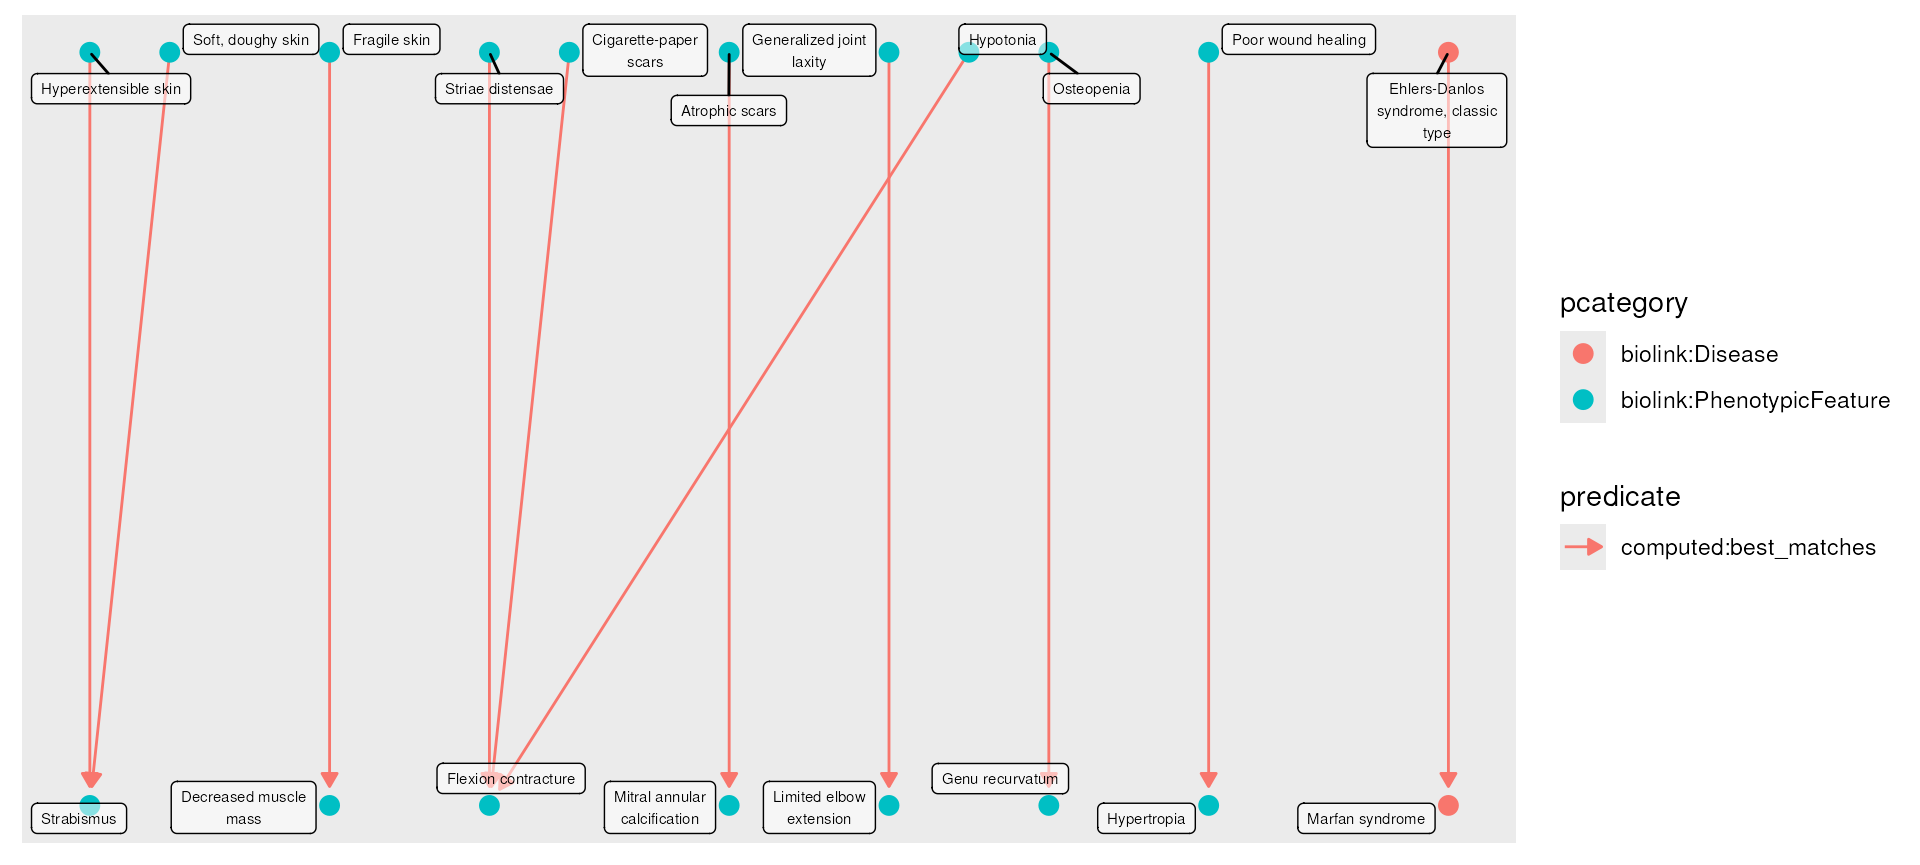
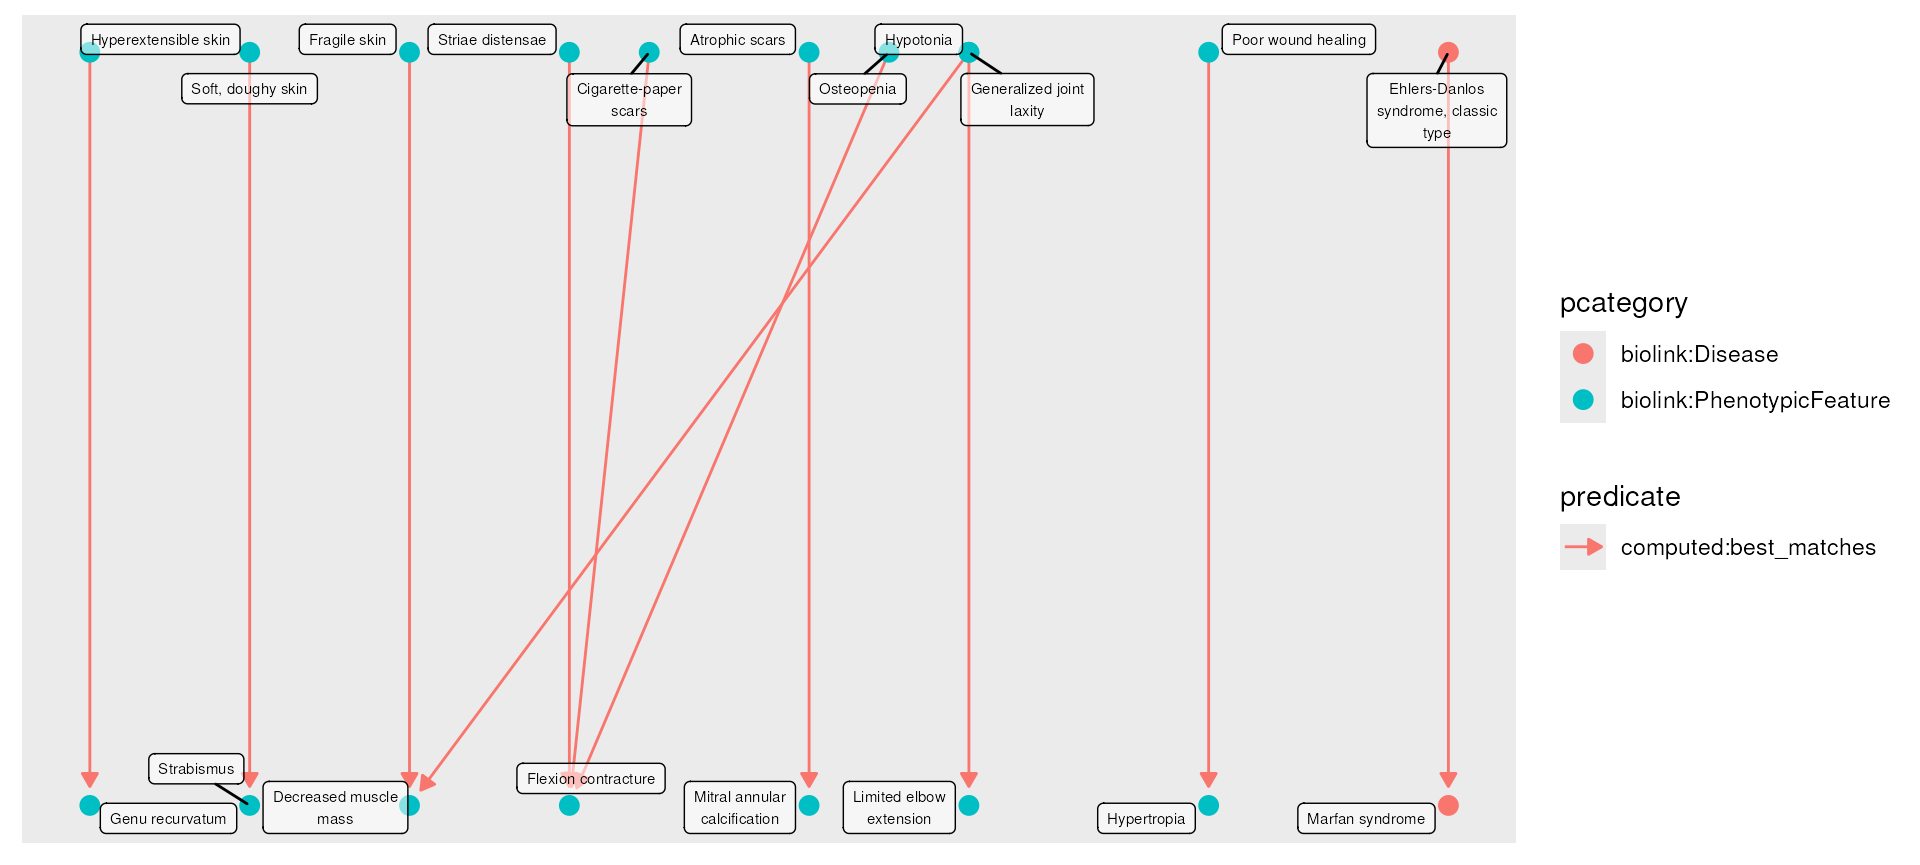
Deploying to gh-pages from @ monarch-initiative/monarchr@3a3d5cf29ec1f6ad160d8322fe490be2c0833464 🚀

Changed region(s): [[0.0, 0.0312, 0.5938, 0.6243], [0.0, 0.4058, 0.5625, 0.9676]]

diff --git a/reference/monarch_semsim.html b/reference/monarch_semsim.html
@@ -61,7 +61,7 @@ https://monarchinitiative.org/explore#phenotype-explorer."><!-- mathjax --><scri
   <div class="col-md-9 contents">
     <div class="page-header">
     <h1>Semantic similarity mapping between two graphs</h1>
-    <small class="dont-index">Source: <a href="https://github.com/monarch-initiative/monarchr/blob/engines/R/monarch_semsim.R" class="external-link"><code>R/monarch_semsim.R</code></a></small>
+    <small class="dont-index">Source: <a href="https://github.com/monarch-initiative/monarchr/blob/main/R/monarch_semsim.R" class="external-link"><code>R/monarch_semsim.R</code></a></small>
     <div class="hidden name"><code>monarch_semsim.Rd</code></div>
     </div>
 
@@ -148,11 +148,11 @@ the best matches from the second graph to the first graph.</p>
 <span class="r-msg co"><span class="r-pr">#&gt;</span> Joining with `by = join_by(id, category, pcategory, name, description, synonym,</span>
 <span class="r-msg co"><span class="r-pr">#&gt;</span> iri, xref, namespace, provided_by)`</span>
 <span class="r-in"><span><span class="fu"><a href="https://rdrr.io/r/base/print.html" class="external-link">print</a></span><span class="op">(</span><span class="va">sim</span><span class="op">)</span></span></span>
-<span class="r-out co"><span class="r-pr">#&gt;</span> <span style="color: #949494;"># A tbl_graph: 133 nodes and 106 edges</span></span>
+<span class="r-out co"><span class="r-pr">#&gt;</span> <span style="color: #949494;"># A tbl_graph: 130 nodes and 106 edges</span></span>
 <span class="r-out co"><span class="r-pr">#&gt;</span> <span style="color: #949494;">#</span></span>
-<span class="r-out co"><span class="r-pr">#&gt;</span> <span style="color: #949494;"># A directed multigraph with 39 components</span></span>
+<span class="r-out co"><span class="r-pr">#&gt;</span> <span style="color: #949494;"># A directed multigraph with 36 components</span></span>
 <span class="r-out co"><span class="r-pr">#&gt;</span> <span style="color: #949494;">#</span></span>
-<span class="r-out co"><span class="r-pr">#&gt;</span> <span style="color: #949494;"># Node Data: 133 × 10 (active)</span></span>
+<span class="r-out co"><span class="r-pr">#&gt;</span> <span style="color: #949494;"># Node Data: 130 × 10 (active)</span></span>
 <span class="r-out co"><span class="r-pr">#&gt;</span>    id         pcategory name  description synonym category iri   xref  namespace</span>
 <span class="r-out co"><span class="r-pr">#&gt;</span>    <span style="color: #949494; font-style: italic;">&lt;chr&gt;</span>      <span style="color: #949494; font-style: italic;">&lt;chr&gt;</span>     <span style="color: #949494; font-style: italic;">&lt;chr&gt;</span> <span style="color: #949494; font-style: italic;">&lt;chr&gt;</span>       <span style="color: #949494; font-style: italic;">&lt;named&gt;</span> <span style="color: #949494; font-style: italic;">&lt;list&gt;</span>   <span style="color: #949494; font-style: italic;">&lt;chr&gt;</span> <span style="color: #949494; font-style: italic;">&lt;nam&gt;</span> <span style="color: #949494; font-style: italic;">&lt;chr&gt;</span>    </span>
 <span class="r-out co"><span class="r-pr">#&gt;</span> <span style="color: #BCBCBC;"> 1</span> MONDO:000… biolink:… Marf… A disorder… <span style="color: #949494;">&lt;chr&gt;</span>   <span style="color: #949494;">&lt;chr&gt;</span>    http… <span style="color: #949494;">&lt;chr&gt;</span> MONDO    </span>
@@ -165,15 +165,15 @@ the best matches from the second graph to the first graph.</p>
 <span class="r-out co"><span class="r-pr">#&gt;</span> <span style="color: #BCBCBC;"> 8</span> HP:0025586 biolink:… Hype… A type of … <span style="color: #949494;">&lt;lgl&gt;</span>   <span style="color: #949494;">&lt;chr&gt;</span>    http… <span style="color: #949494;">&lt;lgl&gt;</span> HP       </span>
 <span class="r-out co"><span class="r-pr">#&gt;</span> <span style="color: #BCBCBC;"> 9</span> HP:0000518 biolink:… Cata… A cataract… <span style="color: #949494;">&lt;chr&gt;</span>   <span style="color: #949494;">&lt;chr&gt;</span>    http… <span style="color: #949494;">&lt;chr&gt;</span> HP       </span>
 <span class="r-out co"><span class="r-pr">#&gt;</span> <span style="color: #BCBCBC;">10</span> HP:0008132 biolink:… Medi… <span style="color: #BB0000;">NA</span>          <span style="color: #949494;">&lt;lgl&gt;</span>   <span style="color: #949494;">&lt;chr&gt;</span>    http… <span style="color: #949494;">&lt;chr&gt;</span> HP       </span>
-<span class="r-out co"><span class="r-pr">#&gt;</span> <span style="color: #949494;"># ℹ 123 more rows</span></span>
+<span class="r-out co"><span class="r-pr">#&gt;</span> <span style="color: #949494;"># ℹ 120 more rows</span></span>
 <span class="r-out co"><span class="r-pr">#&gt;</span> <span style="color: #949494;"># ℹ 1 more variable: provided_by &lt;named list&gt;</span></span>
 <span class="r-out co"><span class="r-pr">#&gt;</span> <span style="color: #949494;">#</span></span>
 <span class="r-out co"><span class="r-pr">#&gt;</span> <span style="color: #949494;"># Edge Data: 106 × 8</span></span>
 <span class="r-out co"><span class="r-pr">#&gt;</span>    from    to subject    predicate             object   metric score ancestor_id</span>
 <span class="r-out co"><span class="r-pr">#&gt;</span>   <span style="color: #949494; font-style: italic;">&lt;int&gt;</span> <span style="color: #949494; font-style: italic;">&lt;int&gt;</span> <span style="color: #949494; font-style: italic;">&lt;chr&gt;</span>      <span style="color: #949494; font-style: italic;">&lt;chr&gt;</span>                 <span style="color: #949494; font-style: italic;">&lt;chr&gt;</span>    <span style="color: #949494; font-style: italic;">&lt;chr&gt;</span>  <span style="color: #949494; font-style: italic;">&lt;dbl&gt;</span> <span style="color: #949494; font-style: italic;">&lt;chr&gt;</span>      </span>
-<span class="r-out co"><span class="r-pr">#&gt;</span> <span style="color: #BCBCBC;">1</span>   106   124 HP:0000006 computed:best_matches HP:0003… ances…  4.10 HP:0000001 </span>
+<span class="r-out co"><span class="r-pr">#&gt;</span> <span style="color: #BCBCBC;">1</span>   106   128 HP:0000006 computed:best_matches HP:0031… ances…  4.10 HP:0000001 </span>
 <span class="r-out co"><span class="r-pr">#&gt;</span> <span style="color: #BCBCBC;">2</span>    83    83 HP:0000023 computed:best_matches HP:0000… ances… 18.2  HP:0000023 </span>
-<span class="r-out co"><span class="r-pr">#&gt;</span> <span style="color: #BCBCBC;">3</span>    23   113 HP:0000098 computed:best_matches HP:0000… ances…  5.96 UPHENO:006…</span>
+<span class="r-out co"><span class="r-pr">#&gt;</span> <span style="color: #BCBCBC;">3</span>    23   112 HP:0000098 computed:best_matches HP:0000… ances…  5.96 UPHENO:006…</span>
 <span class="r-out co"><span class="r-pr">#&gt;</span> <span style="color: #949494;"># ℹ 103 more rows</span></span>
 <span class="r-in"><span></span></span>
 <span class="r-in"><span><span class="co"># also inclue the unmatched targets</span></span></span>
@@ -216,7 +216,7 @@ the best matches from the second graph to the first graph.</p>
 <span class="r-in"><span><span class="fu"><a href="https://rdrr.io/r/base/print.html" class="external-link">print</a></span><span class="op">(</span><span class="va">sim</span><span class="op">)</span></span></span>
 <span class="r-out co"><span class="r-pr">#&gt;</span> <span style="color: #949494;"># A tbl_graph: 161 nodes and 173 edges</span></span>
 <span class="r-out co"><span class="r-pr">#&gt;</span> <span style="color: #949494;">#</span></span>
-<span class="r-out co"><span class="r-pr">#&gt;</span> <span style="color: #949494;"># A directed multigraph with 27 components</span></span>
+<span class="r-out co"><span class="r-pr">#&gt;</span> <span style="color: #949494;"># A directed multigraph with 29 components</span></span>
 <span class="r-out co"><span class="r-pr">#&gt;</span> <span style="color: #949494;">#</span></span>
 <span class="r-out co"><span class="r-pr">#&gt;</span> <span style="color: #949494;"># Node Data: 161 × 10 (active)</span></span>
 <span class="r-out co"><span class="r-pr">#&gt;</span>    id         pcategory name  description synonym category iri   xref  namespace</span>
@@ -237,7 +237,7 @@ the best matches from the second graph to the first graph.</p>
 <span class="r-out co"><span class="r-pr">#&gt;</span> <span style="color: #949494;"># Edge Data: 173 × 8</span></span>
 <span class="r-out co"><span class="r-pr">#&gt;</span>    from    to subject    predicate             object   metric score ancestor_id</span>
 <span class="r-out co"><span class="r-pr">#&gt;</span>   <span style="color: #949494; font-style: italic;">&lt;int&gt;</span> <span style="color: #949494; font-style: italic;">&lt;int&gt;</span> <span style="color: #949494; font-style: italic;">&lt;chr&gt;</span>      <span style="color: #949494; font-style: italic;">&lt;chr&gt;</span>                 <span style="color: #949494; font-style: italic;">&lt;chr&gt;</span>    <span style="color: #949494; font-style: italic;">&lt;chr&gt;</span>  <span style="color: #949494; font-style: italic;">&lt;dbl&gt;</span> <span style="color: #949494; font-style: italic;">&lt;chr&gt;</span>      </span>
-<span class="r-out co"><span class="r-pr">#&gt;</span> <span style="color: #BCBCBC;">1</span>   106    12 HP:0000006 computed:best_matches HP:0002… ances…  4.10 HP:0000001 </span>
+<span class="r-out co"><span class="r-pr">#&gt;</span> <span style="color: #BCBCBC;">1</span>   106   116 HP:0000006 computed:best_matches HP:0002… ances…  4.10 HP:0000001 </span>
 <span class="r-out co"><span class="r-pr">#&gt;</span> <span style="color: #BCBCBC;">2</span>    83    83 HP:0000023 computed:best_matches HP:0000… ances… 18.2  HP:0000023 </span>
 <span class="r-out co"><span class="r-pr">#&gt;</span> <span style="color: #BCBCBC;">3</span>    23   125 HP:0000098 computed:best_matches HP:0000… ances…  5.96 UPHENO:006…</span>
 <span class="r-out co"><span class="r-pr">#&gt;</span> <span style="color: #949494;"># ℹ 170 more rows</span></span>

diff --git a/articles/monarchr.html b/articles/monarchr.html
@@ -93,7 +93,7 @@ O’Neil</h4>
 <i>Jul-23-2024</i>
 </h4>
       
-      <small class="dont-index">Source: <a href="https://github.com/monarch-initiative/monarchr/blob/engines/vignettes/monarchr.Rmd" class="external-link"><code>vignettes/monarchr.Rmd</code></a></small>
+      <small class="dont-index">Source: <a href="https://github.com/monarch-initiative/monarchr/blob/main/vignettes/monarchr.Rmd" class="external-link"><code>vignettes/monarchr.Rmd</code></a></small>
       <div class="hidden name"><code>monarchr.Rmd</code></div>
 
     </div>
@@ -6539,7 +6539,7 @@ ancestor_id
 9
 </td>
 <td style="text-align:left;">
-19
+16
 </td>
 <td style="text-align:left;">
 “HP:0000938”
@@ -6548,7 +6548,7 @@ ancestor_id
 “computed:best_matches”
 </td>
 <td style="text-align:left;">
-“HP:0002816”
+“HP:0001371”
 </td>
 <td style="text-align:left;">
 “ancestor_information_content”
@@ -6565,7 +6565,7 @@ ancestor_id
 2
 </td>
 <td style="text-align:left;">
-14
+19
 </td>
 <td style="text-align:left;">
 “HP:0000974”
@@ -6574,7 +6574,7 @@ ancestor_id
 “computed:best_matches”
 </td>
 <td style="text-align:left;">
-“HP:0000486”
+“HP:0002816”
 </td>
 <td style="text-align:left;">
 “ancestor_information_content”
@@ -6747,7 +6747,7 @@ ancestor_id
 11
 </td>
 <td style="text-align:left;">
-16
+17
 </td>
 <td style="text-align:left;">
 “HP:0001252”
@@ -6756,7 +6756,7 @@ ancestor_id
 “computed:best_matches”
 </td>
 <td style="text-align:left;">
-“HP:0001371”
+“HP:0003199”
 </td>
 <td style="text-align:left;">
 “ancestor_information_content”

diff --git a/reference/monarch_engine.html b/reference/monarch_engine.html
@@ -60,7 +60,7 @@ graph objects."><!-- mathjax --><script src="https://cdnjs.cloudflare.com/ajax/l
   <div class="col-md-9 contents">
     <div class="page-header">
     <h1>Create a knowledge graph engine object backed by the public Monarch Neo4j instance</h1>
-    <small class="dont-index">Source: <a href="https://github.com/monarch-initiative/monarchr/blob/engines/R/monarch_engine.R" class="external-link"><code>R/monarch_engine.R</code></a></small>
+    <small class="dont-index">Source: <a href="https://github.com/monarch-initiative/monarchr/blob/main/R/monarch_engine.R" class="external-link"><code>R/monarch_engine.R</code></a></small>
     <div class="hidden name"><code>monarch_engine.Rd</code></div>
     </div>
 

diff --git a/reference/summarize_neighborhood.html b/reference/summarize_neighborhood.html
@@ -63,7 +63,7 @@ graph's collective neighborhood in the larger KG."><!-- mathjax --><script src="
   <div class="col-md-9 contents">
     <div class="page-header">
     <h1>Summarize neighborhood</h1>
-    <small class="dont-index">Source: <a href="https://github.com/monarch-initiative/monarchr/blob/engines/R/summarize_neighborhood.R" class="external-link"><code>R/summarize_neighborhood.R</code></a></small>
+    <small class="dont-index">Source: <a href="https://github.com/monarch-initiative/monarchr/blob/main/R/summarize_neighborhood.R" class="external-link"><code>R/summarize_neighborhood.R</code></a></small>
     <div class="hidden name"><code>summarize_neighborhood.Rd</code></div>
     </div>
 

diff --git a/reference/monarch_search.html b/reference/monarch_search.html
@@ -61,7 +61,7 @@ It returns nodes (no edges) from the Monarch KG, fetched via an instance of mona
   <div class="col-md-9 contents">
     <div class="page-header">
     <h1>Search for KG nodes using the Monarch Initiative search API</h1>
-    <small class="dont-index">Source: <a href="https://github.com/monarch-initiative/monarchr/blob/engines/R/monarch_search.R" class="external-link"><code>R/monarch_search.R</code></a></small>
+    <small class="dont-index">Source: <a href="https://github.com/monarch-initiative/monarchr/blob/main/R/monarch_search.R" class="external-link"><code>R/monarch_search.R</code></a></small>
     <div class="hidden name"><code>monarch_search.Rd</code></div>
     </div>
 

diff --git a/reference/stitch_vectors.html b/reference/stitch_vectors.html
@@ -62,7 +62,7 @@ scalar strings"><!-- mathjax --><script src="https://cdnjs.cloudflare.com/ajax/l
   <div class="col-md-9 contents">
     <div class="page-header">
     <h1>Stitch Vectors</h1>
-    <small class="dont-index">Source: <a href="https://github.com/monarch-initiative/monarchr/blob/engines/R/cypher_query.neo4j_engine.R" class="external-link"><code>R/cypher_query.neo4j_engine.R</code></a></small>
+    <small class="dont-index">Source: <a href="https://github.com/monarch-initiative/monarchr/blob/main/R/cypher_query.neo4j_engine.R" class="external-link"><code>R/cypher_query.neo4j_engine.R</code></a></small>
     <div class="hidden name"><code>stitch_vectors.Rd</code></div>
     </div>
 

diff --git a/reference/normalize_categories.html b/reference/normalize_categories.html
@@ -60,7 +60,7 @@ It selects the most preferred category from each vector, or the first category i
   <div class="col-md-9 contents">
     <div class="page-header">
     <h1>Normalize Categories</h1>
-    <small class="dont-index">Source: <a href="https://github.com/monarch-initiative/monarchr/blob/engines/R/normalize_categories.R" class="external-link"><code>R/normalize_categories.R</code></a></small>
+    <small class="dont-index">Source: <a href="https://github.com/monarch-initiative/monarchr/blob/main/R/normalize_categories.R" class="external-link"><code>R/normalize_categories.R</code></a></small>
     <div class="hidden name"><code>normalize_categories.Rd</code></div>
     </div>
 

diff --git a/reference/neo4j_engine.html b/reference/neo4j_engine.html
@@ -61,7 +61,7 @@ graph objects.'><!-- mathjax --><script src="https://cdnjs.cloudflare.com/ajax/l
   <div class="col-md-9 contents">
     <div class="page-header">
     <h1>Create a knowledge graph engine object for a neo4j database</h1>
-    <small class="dont-index">Source: <a href="https://github.com/monarch-initiative/monarchr/blob/engines/R/neo4j_engine.R" class="external-link"><code>R/neo4j_engine.R</code></a></small>
+    <small class="dont-index">Source: <a href="https://github.com/monarch-initiative/monarchr/blob/main/R/neo4j_engine.R" class="external-link"><code>R/neo4j_engine.R</code></a></small>
     <div class="hidden name"><code>neo4j_engine.Rd</code></div>
     </div>
 

diff --git a/reference/fetch_nodes.html b/reference/fetch_nodes.html
@@ -63,7 +63,7 @@ set of condition expressions are supported, see details."><!-- mathjax --><scrip
   <div class="col-md-9 contents">
     <div class="page-header">
     <h1>Fetch nodes from a graph using a set of IDs or conditions</h1>
-    <small class="dont-index">Source: <a href="https://github.com/monarch-initiative/monarchr/blob/engines/R/fetch_nodes.R" class="external-link"><code>R/fetch_nodes.R</code></a></small>
+    <small class="dont-index">Source: <a href="https://github.com/monarch-initiative/monarchr/blob/main/R/fetch_nodes.R" class="external-link"><code>R/fetch_nodes.R</code></a></small>
     <div class="hidden name"><code>fetch_nodes.Rd</code></div>
     </div>
 

diff --git a/reference/grapes-in_list-grapes.html b/reference/grapes-in_list-grapes.html
@@ -60,7 +60,7 @@ that this is different than %in% which does not work with list columns in a natu
   <div class="col-md-9 contents">
     <div class="page-header">
     <h1>Check if an element is contained in list sub-elements</h1>
-    <small class="dont-index">Source: <a href="https://github.com/monarch-initiative/monarchr/blob/engines/R/in_list.R" class="external-link"><code>R/in_list.R</code></a></small>
+    <small class="dont-index">Source: <a href="https://github.com/monarch-initiative/monarchr/blob/main/R/in_list.R" class="external-link"><code>R/in_list.R</code></a></small>
     <div class="hidden name"><code>grapes-in_list-grapes.Rd</code></div>
     </div>
 

diff --git a/reference/expand.html b/reference/expand.html
@@ -62,7 +62,7 @@ engine is used; if the first parameter is a query graph, the most recent engine 
   <div class="col-md-9 contents">
     <div class="page-header">
     <h1>Fetch additional knowledge graph edges connected to a query graph</h1>
-    <small class="dont-index">Source: <a href="https://github.com/monarch-initiative/monarchr/blob/engines/R/expand.R" class="external-link"><code>R/expand.R</code></a></small>
+    <small class="dont-index">Source: <a href="https://github.com/monarch-initiative/monarchr/blob/main/R/expand.R" class="external-link"><code>R/expand.R</code></a></small>
     <div class="hidden name"><code>expand.Rd</code></div>
     </div>
 

diff --git a/articles/examples/alzheimers_phenotypes.html b/articles/examples/alzheimers_phenotypes.html
@@ -93,7 +93,7 @@ O’Neil</h4>
 <i>Jul-23-2024</i>
 </h4>
       
-      <small class="dont-index">Source: <a href="https://github.com/monarch-initiative/monarchr/blob/engines/vignettes/examples/alzheimers_phenotypes.Rmd" class="external-link"><code>vignettes/examples/alzheimers_phenotypes.Rmd</code></a></small>
+      <small class="dont-index">Source: <a href="https://github.com/monarch-initiative/monarchr/blob/main/vignettes/examples/alzheimers_phenotypes.Rmd" class="external-link"><code>vignettes/examples/alzheimers_phenotypes.Rmd</code></a></small>
       <div class="hidden name"><code>alzheimers_phenotypes.Rmd</code></div>
 
     </div>
